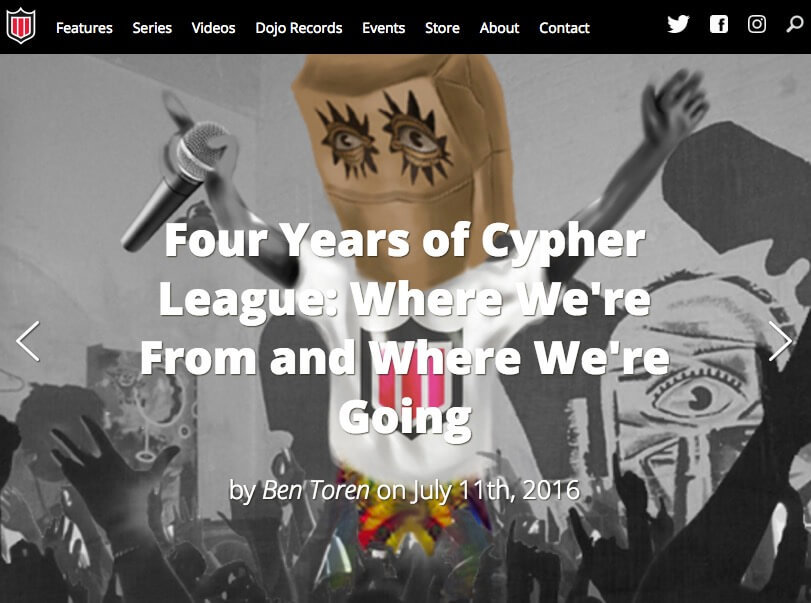
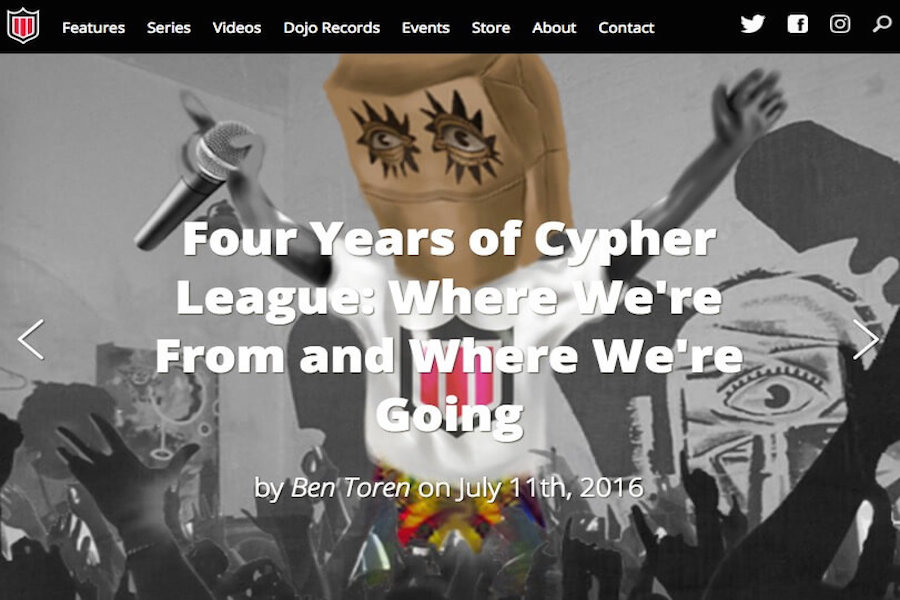
cl img updated

diff --git a/index.html b/index.html
@@ -134,7 +134,7 @@
         <div class="col s12 m4">
           <div class="card card-panel hoverable">
             <div class="card-image">
-              <img class="z-depth-1" src="pics/projects/cl.jpg" alt="Cypher League - home page screenshot"></img>
+              <img class="z-depth-1" src="pics/projects/cl1.jpg" alt="Cypher League - home page screenshot"></img>
             </div>
             <div class="card-content">
               <h5>Cypher League,<br><h6>Client Project</h6></h5>
